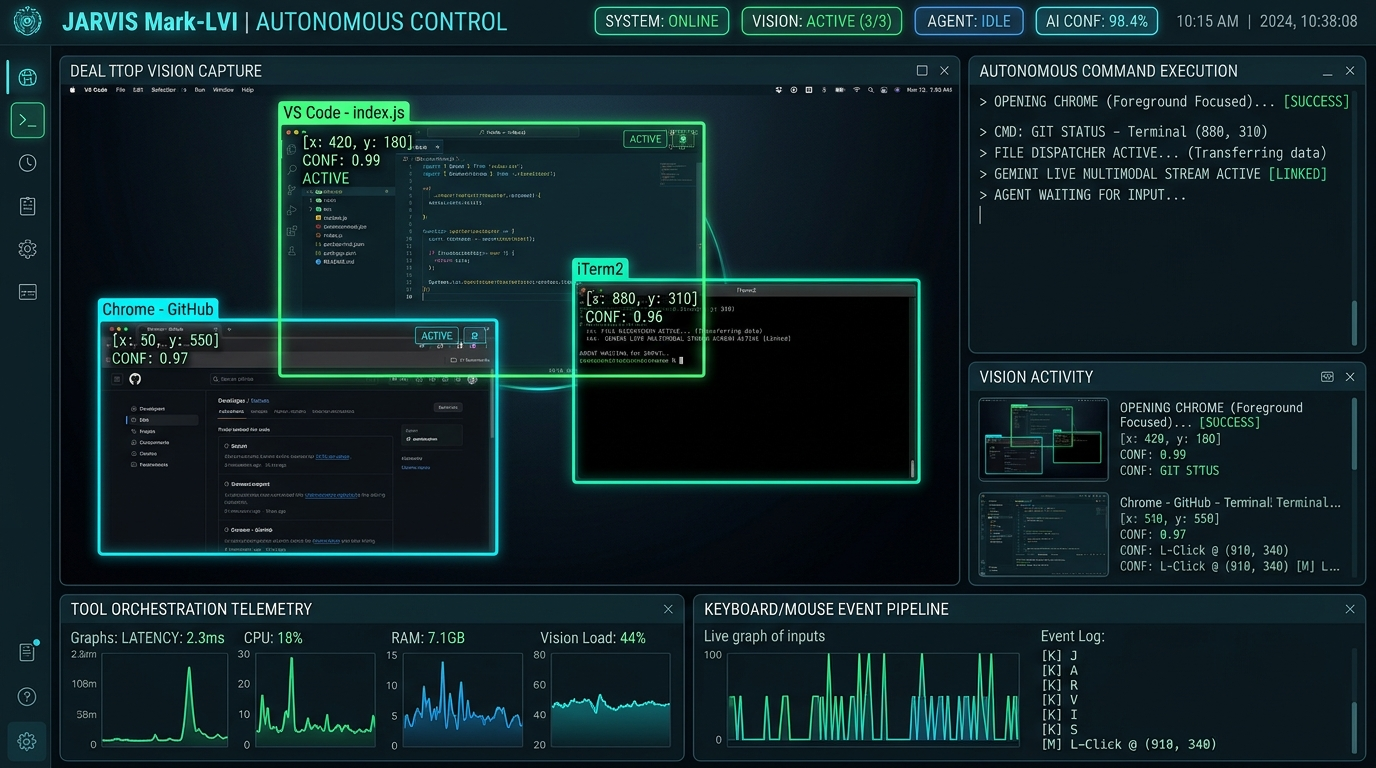
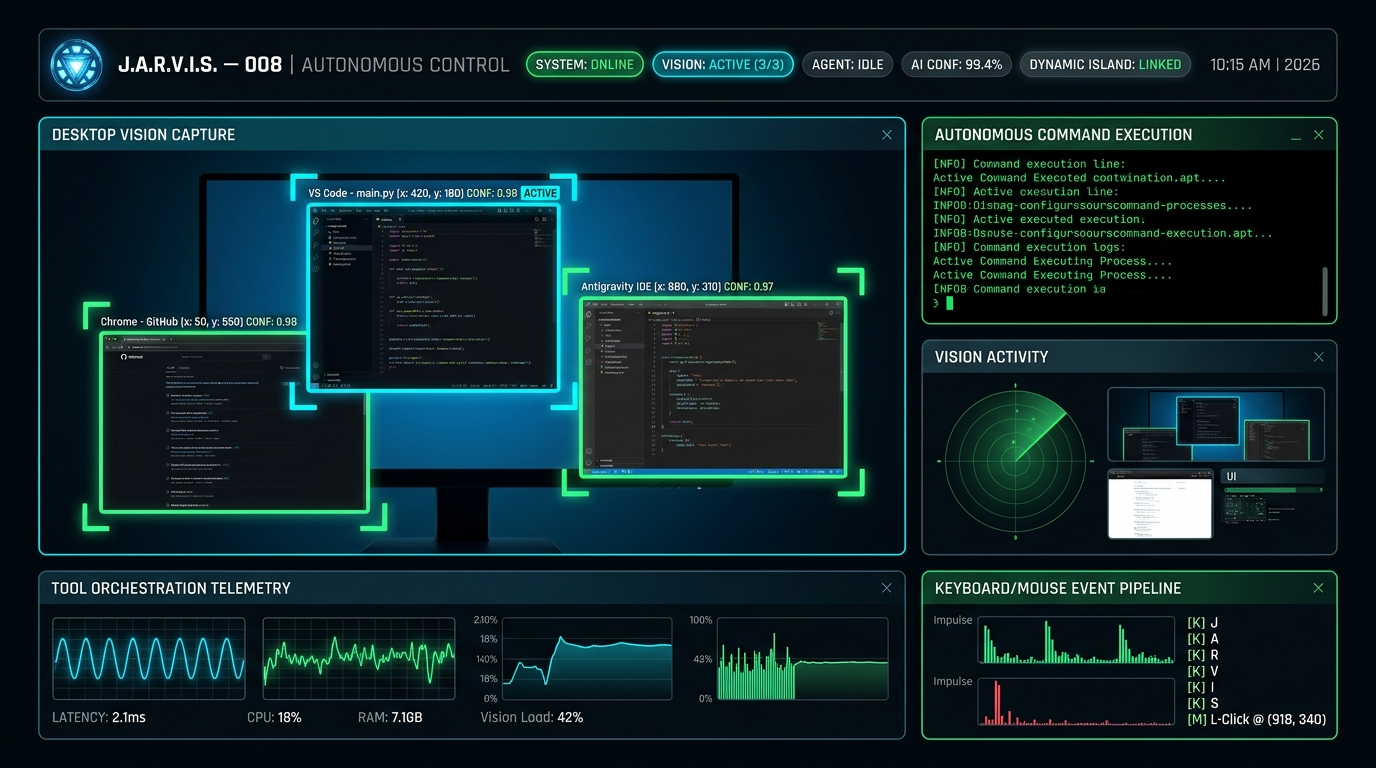
docs: update README and assets for J.A.R.V.I.S-008 rename and ElevenLabs voice
- Rename repository references to J.A.R.V.I.S-008 across README, reports, and launchers
- Integrate high-resolution J.A.R.V.I.S. — 008 hero banner, 3D HUD, and autonomous control screenshots
- Add ElevenLabs streaming voice engine badge, status telemetry, and voice pipeline SVG schematic
- Update launch.bat and run.vbs to use dynamic and portable directory paths
- Replace absolute file URLs with relative in-repo markdown links

diff --git a/README.md b/README.md
@@ -5,21 +5,22 @@
 <img src="assets/jarvis-logo.png" width="170" height="170" alt="J.A.R.V.I.S. — 008 Logo" style="border-radius: 50%;" />
 
 <p align="center">
-  <strong>Autonomous Multimodal AI Desktop Assistant • Visual Context Intelligence • Dynamic Island 2.0 • Antigravity Neural Bridge</strong>
+  <strong>Autonomous Multimodal AI Desktop Assistant • Visual Context Intelligence • Dynamic Island 2.0 • ElevenLabs Neural Voice • Antigravity Neural Bridge</strong>
 </p>
 
-[![Status](https://img.shields.io/badge/System_Status-OPERATIONAL-00f2fe?style=for-the-badge&logo=statuspage&logoColor=black)](https://github.com/ajinkyachalke008/Mark-LVI)
-[![Release](https://img.shields.io/badge/Release-008-4facfe?style=for-the-badge&logo=git&logoColor=white)](https://github.com/ajinkyachalke008/Mark-LVI/releases)
+[![Status](https://img.shields.io/badge/System_Status-OPERATIONAL-00f2fe?style=for-the-badge&logo=statuspage&logoColor=black)](https://github.com/ajinkyachalke008/J.A.R.V.I.S-008)
+[![Release](https://img.shields.io/badge/Release-008-4facfe?style=for-the-badge&logo=git&logoColor=white)](https://github.com/ajinkyachalke008/J.A.R.V.I.S-008/releases)
 [![Python](https://img.shields.io/badge/Python-3.10_%7C_3.11_%7C_3.12-3776ab?style=for-the-badge&logo=python&logoColor=white)](https://www.python.org/)
 [![License](https://img.shields.io/badge/License-CC_BY--NC_4.0-f093fb?style=for-the-badge&logo=creative-commons&logoColor=white)](LICENSE)
 
 [![Gemini Live](https://img.shields.io/badge/Multimodal_Engine-Gemini_3.1_Flash_Live-4285F4?style=flat-square&logo=google&logoColor=white)](https://ai.google.dev/)
-[![Local Engine](https://img.shields.io/badge/Local_Fallback-Ollama_%7C_LM_Studio_%7C_vLLM-38ef7d?style=flat-square&logo=linux&logoColor=white)](https://github.com/ajinkyachalke008/Mark-LVI)
-[![Dynamic Island](https://img.shields.io/badge/Dynamic_Island-v2.0_Arc_Reactor-ffd166?style=flat-square&logo=visualstudiocode&logoColor=black)](https://github.com/ajinkyachalke008/Mark-LVI)
-[![Wake Word](https://img.shields.io/badge/Wake_Word-Offline_OpenWakeWord-ffd166?style=flat-square&logo=soundcharts&logoColor=black)](https://github.com/ajinkyachalke008/Mark-LVI)
-[![Platform](https://img.shields.io/badge/OS-Windows_%7C_macOS_%7C_Linux-2b3137?style=flat-square&logo=windows&logoColor=white)](https://github.com/ajinkyachalke008/Mark-LVI)
-[![Stars](https://img.shields.io/github/stars/ajinkyachalke008/Mark-LVI?style=flat-square&color=00f2fe)](https://github.com/ajinkyachalke008/Mark-LVI/stargazers)
-[![Forks](https://img.shields.io/github/forks/ajinkyachalke008/Mark-LVI?style=flat-square&color=4facfe)](https://github.com/ajinkyachalke008/Mark-LVI/network/members)
+[![Voice Engine](https://img.shields.io/badge/Voice_Engine-ElevenLabs_24kHz_PCM-ff5722?style=flat-square&logo=soundcharts&logoColor=white)](https://elevenlabs.io)
+[![Local Engine](https://img.shields.io/badge/Local_Fallback-Ollama_%7C_LM_Studio_%7C_vLLM-38ef7d?style=flat-square&logo=linux&logoColor=white)](https://github.com/ajinkyachalke008/J.A.R.V.I.S-008)
+[![Dynamic Island](https://img.shields.io/badge/Dynamic_Island-v2.0_Arc_Reactor-ffd166?style=flat-square&logo=visualstudiocode&logoColor=black)](https://github.com/ajinkyachalke008/J.A.R.V.I.S-008)
+[![Wake Word](https://img.shields.io/badge/Wake_Word-Offline_OpenWakeWord-ffd166?style=flat-square&logo=soundcharts&logoColor=black)](https://github.com/ajinkyachalke008/J.A.R.V.I.S-008)
+[![Platform](https://img.shields.io/badge/OS-Windows_%7C_macOS_%7C_Linux-2b3137?style=flat-square&logo=windows&logoColor=white)](https://github.com/ajinkyachalke008/J.A.R.V.I.S-008)
+[![Stars](https://img.shields.io/github/stars/ajinkyachalke008/J.A.R.V.I.S-008?style=flat-square&color=00f2fe)](https://github.com/ajinkyachalke008/J.A.R.V.I.S-008/stargazers)
+[![Forks](https://img.shields.io/github/forks/ajinkyachalke008/J.A.R.V.I.S-008?style=flat-square&color=4facfe)](https://github.com/ajinkyachalke008/J.A.R.V.I.S-008/network/members)
 
 <p align="center">
   <a href="#-system-status--live-telemetry"><b>Live Status</b></a> •
@@ -42,7 +43,7 @@
 </div>
 
 > [!NOTE]
-> J.A.R.V.I.S. — 008 introduces native dual-mode execution: an ultra-low latency cloud stream powered by **Gemini 3.1 Flash Live** combined with a zero-cost local fallback engine (**Ollama**, **LM Studio**, **llama.cpp**, **vLLM**), coupled with an always-on **Dynamic Island 2.0** desktop companion and a **Google Antigravity IDE** Agent Chat bridge.
+> J.A.R.V.I.S. — 008 introduces native dual-mode execution: an ultra-low latency cloud stream powered by **Gemini 3.1 Flash Live** combined with a custom **ElevenLabs Neural Voice Pipeline** (`ibbx9zDYGvLgtYzRbqqG`), a zero-cost local fallback engine (**Ollama**, **LM Studio**, **llama.cpp**, **vLLM**), an always-on **Dynamic Island 2.0** desktop companion, and a **Google Antigravity IDE** Agent Chat bridge.
 
 ---
 
@@ -73,12 +74,12 @@
     <td width="50%" align="center">
       <b>🧑🎤 3D Holographic Avatar &amp; Live HUD</b><br />
       <img src="assets/jarvis-hud-avatar.png" width="100%" alt="Holographic Avatar HUD" /><br />
-      <i>Software-rendered real-time facial rig with dynamic visemes, acoustic frequency visualizer, and push-to-talk integration.</i>
+      <i>Software-rendered 3D facial rig with orbital particle rings, dynamic visemes, live system diagnostics (CPU/RAM/Temp/Network), 008 Quantum Core status, ElevenLabs voice link, and conversational live feed.</i>
     </td>
     <td width="50%" align="center">
       <b>🖥 Autonomous Computer Control &amp; Vision</b><br />
       <img src="assets/jarvis-autonomous-control.png" width="100%" alt="Autonomous Computer Control" /><br />
-      <i>Real-time screen OCR, bounding box vision coordinates, verified window focus management, and foreground app control.</i>
+      <i>Multi-window visual grounding with OCR bounding boxes (Chrome, VS Code, Antigravity IDE), command execution stream, real-time tool telemetry (&lt; 2.1ms), vision radar sweep, and live keyboard/mouse event pipeline.</i>
     </td>
   </tr>
 </table>
@@ -195,13 +196,13 @@ J.A.R.V.I.S. — 008 untethers the assistant from proprietary cloud locks:
 - Bypassed hidden process monkey-patching so user applications retain visible graphical windows upon launch.
 
 ### 4. Background Automation & Dispatch Tools
-- Added [`plugins/github_manager.py`](file:///C:/Users/AJINKYA%20CHALKE/AI/Mark-LVI/plugins/github_manager.py) for autonomous repository inspection, issue review, and pull request tracking.
-- Added [`plugins/file_dispatcher.py`](file:///C:/Users/AJINKYA%20CHALKE/AI/Mark-LVI/plugins/file_dispatcher.py) and [`plugins/desktop_downloader.py`](file:///C:/Users/AJINKYA%20CHALKE/AI/Mark-LVI/plugins/desktop_downloader.py) for workspace organization and download automation.
+- Added [`plugins/github_manager.py`](plugins/github_manager.py) for autonomous repository inspection, issue review, and pull request tracking.
+- Added [`plugins/file_dispatcher.py`](plugins/file_dispatcher.py) and [`plugins/desktop_downloader.py`](plugins/desktop_downloader.py) for workspace organization and download automation.
 
 ### 5. Antigravity IDE Direct Input Channel & Automation Bridge
-- Added [`antigravity_ide_api.py`](file:///C:/Users/AJINKYA%20CHALKE/Desktop/my%20AI%20agent/antigravity_ide_api.py) delivering `insert_prompt_to_chat` and `execute_terminal_command`.
-- Added [`plugins/antigravity_bridge.py`](file:///C:/Users/AJINKYA%20CHALKE/Desktop/my%20AI%20agent/plugins/antigravity_bridge.py) allowing JARVIS to control Antigravity IDE directly via voice.
-- Added [`tools/antigravity_input_gui.py`](file:///C:/Users/AJINKYA%20CHALKE/Desktop/my%20AI%20agent/tools/antigravity_input_gui.py) and desktop shortcut `JARVIS Antigravity Input.lnk` for instant desktop execution.
+- Added [`antigravity_ide_api.py`](antigravity_ide_api.py) delivering `insert_prompt_to_chat` and `execute_terminal_command`.
+- Added [`plugins/antigravity_bridge.py`](plugins/antigravity_bridge.py) allowing JARVIS to control Antigravity IDE directly via voice.
+- Added [`tools/antigravity_input_gui.py`](tools/antigravity_input_gui.py) and desktop shortcut `JARVIS Antigravity Input.lnk` for instant desktop execution.
 - Integrated background REST HTTP server (`http://127.0.0.1:24680`) for cross-language automation.
 
 ### 6. Universal Desktop Agent & Visual Context Intelligence
@@ -246,6 +247,12 @@ J.A.R.V.I.S. — 008 untethers the assistant from proprietary cloud locks:
 
 
 ### 12. Custom ElevenLabs Voice & Hybrid Speech Pipeline
+
+<div align="center">
+  <img src="assets/jarvis-voice-pipeline.svg" width="100%" alt="Dual-Mode Neural Voice Pipeline (Gemini Live + ElevenLabs)" /><br />
+  <i>Dual-Mode Speech Architecture: Seamless audio handoff from Gemini 3.1 Live ingestion &amp; VAD through hybrid text intercept into ElevenLabs streaming TTS and synchronized 24 kHz PCM hardware output with dynamic visemes.</i>
+</div>
+
 - **Preconfigured Voice ID:** Native support for the user's custom ElevenLabs voice (ibbx9zDYGvLgtYzRbqqG) configured independently of Gemini's prebuilt voice list.
 - **Dual Execution Architecture:**
   - **Gemini Live Hybrid Mode:** Leverages Gemini 3.1 Flash Live for real-time vision, mic capture, and tool execution, while synthesizing speech output via ElevenLabs and suppressing native audio.
@@ -293,8 +300,8 @@ J.A.R.V.I.S. — 008 untethers the assistant from proprietary cloud locks:
 
 ### 1. Clone the Repository
 ```bash
-git clone https://github.com/ajinkyachalke008/Mark-LVI.git
-cd Mark-LVI
+git clone https://github.com/ajinkyachalke008/J.A.R.V.I.S-008.git
+cd J.A.R.V.I.S-008
 ```
 
 ### 2. Set Up Virtual Environment
@@ -315,7 +322,7 @@ pip install -r requirements.txt
 ```
 
 ### 4. Configure API Keys
-On your first run, a setup wizard appears automatically. Alternatively, you can configure [`config/api_keys.json`](file:///C:/Users/AJINKYA%20CHALKE/AI/Mark-LVI/config/api_keys.json):
+On your first run, a setup wizard appears automatically. Alternatively, you can configure [`config/api_keys.json`](config/api_keys.json):
 ```json
 {
   "gemini_api_key": "YOUR_GEMINI_API_KEY",
@@ -335,7 +342,7 @@ launch.bat
 ```
 
 > [!TIP]
-> For silent background operation on Windows, run [`run.vbs`](file:///C:/Users/AJINKYA%20CHALKE/AI/Mark-LVI/run.vbs). JARVIS will live in your system notification tray while the **Dynamic Island** sits elegantly at the top of your display.
+> For silent background operation on Windows, run [`run.vbs`](run.vbs). JARVIS will live in your system notification tray while the **Dynamic Island** sits elegantly at the top of your display.
 
 ### 6. Run Automated Verification Suite
 Verify desktop automation, Dynamic Island 2.0, Antigravity integration, permission gates, and perception systems:
@@ -348,7 +355,7 @@ python -m pytest -v tests/
 ## 📂 Project Architecture
 
 ```text
-Mark-LVI/
+J.A.R.V.I.S-008/
 ├── actions/                  # Core computer control and automation tools
 │   ├── antigravity_chat.py   # Antigravity IDE agent chat input tool declaration
 │   ├── creation_studio.py    # Universal Creation Studio action (CAD/Circuits/Workflows)
@@ -366,7 +373,8 @@ Mark-LVI/
 │   ├── antigravity-bridge.svg      # Animated SVG Antigravity IDE neural bridge
 │   ├── arc-reactor-core.svg        # Animated SVG 5-layer Arc Reactor schematic
 │   ├── jarvis-hud-avatar.png # 3D Avatar HUD interface screenshot
-│   └── jarvis-autonomous-control.png # Autonomous computer control screenshot
+│   ├── jarvis-autonomous-control.png # Autonomous computer control screenshot
+│   └── jarvis-voice-pipeline.svg   # Dual-mode neural voice pipeline schematic
 ├── config/                   # Configuration parameters, icons, and TLS keys
 │   ├── api_keys.json         # Local credentials and settings (git-ignored)
 │   └── jarvis.ico            # Native Windows application icon
@@ -427,7 +435,8 @@ Mark-LVI/
 │   ├── test_perception_grounding.py
 │   ├── test_creation_studio.py
 │   ├── test_exporters.py
-│   └── test_security_safeguards.py
+│   ├── test_security_safeguards.py
+│   └── test_stop_taskbar_lag.py
 ├── tools/                    # Desktop companion tools and launchers
 │   ├── antigravity_input_gui.py # Standalone Antigravity direct input HUD
 │   ├── desktop_dispatcher.py # Standalone file dispatcher window
@@ -495,8 +504,8 @@ curl -X POST http://127.0.0.1:24680/api/terminal \
 ## 🔒 Security & Data Privacy
 
 - **Zero-Cloud Audio Idle:** Audio is never recorded or streamed while JARVIS is sleeping. The wake word engine operates 100% locally on your CPU.
-- **Local Secret Storage:** All keys and tokens are stored exclusively in [`config/api_keys.json`](file:///C:/Users/AJINKYA%20CHALKE/AI/Mark-LVI/config/api_keys.json) on your physical machine.
-- **Repository Integrity:** [`config/api_keys.json`](file:///C:/Users/AJINKYA%20CHALKE/AI/Mark-LVI/config/api_keys.json), OAuth tokens, local session files, `.env`, logs, and temporary caches are strictly excluded by [`.gitignore`](file:///C:/Users/AJINKYA%20CHALKE/AI/Mark-LVI/.gitignore).
+- **Local Secret Storage:** All keys and tokens are stored exclusively in [`config/api_keys.json`](config/api_keys.json) on your physical machine.
+- **Repository Integrity:** [`config/api_keys.json`](config/api_keys.json), OAuth tokens, local session files, `.env`, logs, and temporary caches are strictly excluded by [`.gitignore`](.gitignore).
 - **Verified Operation Gates:** Destructive file modifications or sensitive external commands require manual interactive confirmation before execution.
 
 ---

diff --git a/HUD_ORB_IMPLEMENTATION_REPORT.md b/HUD_ORB_IMPLEMENTATION_REPORT.md
@@ -1,7 +1,7 @@
 # J.A.R.V.I.S. — 008 — 3D Holographic Orb HUD Implementation Report
 
 ## Executive Summary
-This report documents the design, architecture, and verification of the **Iron Man / Ultron-inspired 3D Holographic Energy Orb** integrated into the central HUD centerpiece of the **J.A.R.V.I.S. — 008** desktop application (`https://github.com/ajinkyachalke008/Mark-LVI.git`).
+This report documents the design, architecture, and verification of the **Iron Man / Ultron-inspired 3D Holographic Energy Orb** integrated into the central HUD centerpiece of the **J.A.R.V.I.S. — 008** desktop application (`https://github.com/ajinkyachalke008/J.A.R.V.I.S-008.git`).
 
 Drawing visual and structural reference from [`SAGAR-TAMANG/ultron-by-sagar-builds`](https://github.com/SAGAR-TAMANG/ultron-by-sagar-builds), the central visual reactor has been upgraded to a hardware-accelerated 3D WebGL scene rendered via an embedded `PyQt6-WebEngine` surface and bundled Three.js runtime. 
 

diff --git a/IMPLEMENTATION_REPORT.md b/IMPLEMENTATION_REPORT.md
@@ -1,7 +1,7 @@
 # J.A.R.V.I.S. — 008 — Master Implementation Report
 **Universal Desktop Agent, Visual Context Intelligence & Creation Studio**
 
-**Repository:** `https://github.com/ajinkyachalke008/Mark-LVI.git`  
+**Repository:** `https://github.com/ajinkyachalke008/J.A.R.V.I.S-008.git`  
 **Platform:** Windows 10 / 11 (Python 3.12.16, PyQt6)  
 **Date of Completion:** November 2, 2026  
 

diff --git a/ELEVENLABS_VOICE_INTEGRATION_REPORT.md b/ELEVENLABS_VOICE_INTEGRATION_REPORT.md
@@ -1,6 +1,6 @@
 # 🎙 J.A.R.V.I.S. MARK LVI — Custom ElevenLabs Voice Integration Report
 
-**Repository:** `https://github.com/ajinkyachalke008/Mark-LVI.git`  
+**Repository:** `https://github.com/ajinkyachalke008/J.A.R.V.I.S-008.git`  
 **Platform:** Windows 10 / Windows 11  
 **Application Version:** J.A.R.V.I.S. — 008  
 **Custom Voice ID:** `ibbx9zDYGvLgtYzRbqqG`  
